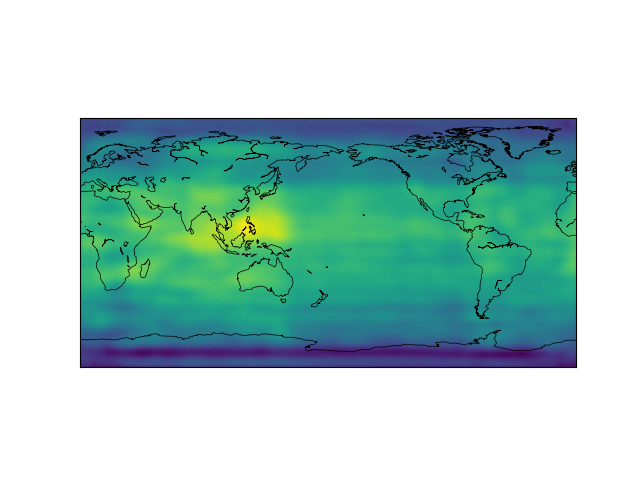
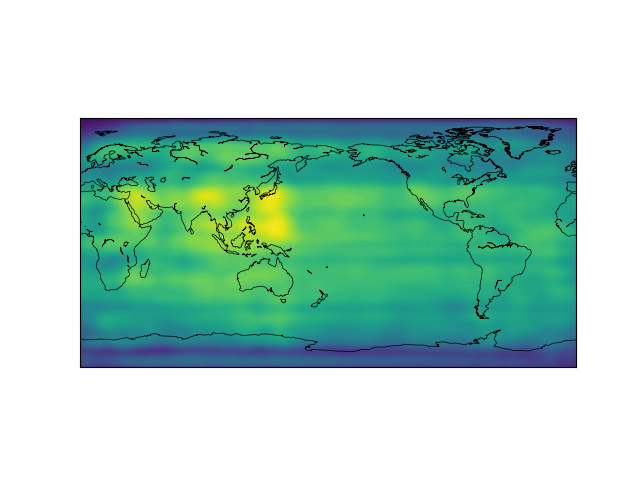
feat: ✨ update da.py + add docstrings!

Changed region(s): [[0.125, 0.25, 0.875, 0.7812], [0.875, 0.4062, 0.9062, 0.5938], [0.875, 0.25, 0.9062, 0.2812]]

diff --git a/DataAssimilation/da.py b/DataAssimilation/da.py
@@ -1,72 +1,85 @@
-import argparse
+"""
+ This function is the work of my life :D
+"""
 import tensorflow as tf
-import netCDF4 as nc
 import numpy as np
 from mpl_toolkits.basemap import Basemap
 import matplotlib.pyplot as plt
 
-# parser = argparse.ArgumentParser(prefix_chars='--')
-# parser.add_argument('--state', type=int, help='State to predict')
-# parser.add_argument('--variable', type=str, help='Variable to predict')
+
+VARIABLE = 'air'
+
+model = [tf.keras.models.load_model(
+    f'./cnn-models/{state}/{VARIABLE}{state}.h5', compile=False) for state in [0, 6, 12, 18]]
 
 
-# args = parser.parse_args()
-# state = args.state
-# variable = args.variable
+def forecast(x_forecast, t_state: int):
+    """_summary_
 
+    Args:
+        x_forecast (_type_): _description_
+        t_state (int): _description_
 
-
-
-# states: 0 - 6 - 12 -18
-
-state = 6
-variable = 'air'
-nc_data_i = nc.Dataset(f'./test-data/0/air0.nc')
-nc_data_i_1 = nc.Dataset(f'./test-data/6/air6.nc')
-
-data_i = nc_data_i[f'{variable}'][:].data
-data_i_1 = nc_data_i_1[f'{variable}'][:].data
-
-nc_data_i.close()
-nc_data_i_1.close()
-
-xb = data_i[0].flatten()
-xr = data_i_1[0].flatten()
-n_members = 20
-
-def forecast(x,t):
-    x = x.reshape(73,144)
-    if t == 0:
-        states = [18, 0, 6, 12, 18]
-    elif t == 6:
-        states = [0, 6, 12, 18, 0]
-    elif t == 12:
-        states = [6, 12, 18, 0, 6]
+    Returns:
+        _type_: _description_
+    """
+    x_forecast = x_forecast.reshape(73, 144)
+    if t_state == 0:
+        states = [3, 0, 1, 2, 3]
+    elif t_state == 6:
+        states = [0, 1, 2, 3, 0]
+    elif t_state == 12:
+        states = [1, 2, 3, 0, 1]
     else:
-        states = [12, 18, 0, 6, 12]
-    for state in states:
-        model = tf.keras.models.load_model(f'./cnn-models/{state}/{variable}{state}.h5', compile=False)
-        x = model.predict(tf.reshape(x, [1, 73, 144, 1]))[0, ..., 0]
-        del model
-    return x.flatten()
-
-def create_initial_ensemble(xb, t, N):
-  Xb = []
-  for _ in range(0,N):
-    xbe_pert = xb+0.01*np.random.randn(73*144) #e-th pertured ensemble member (no consistent with model dynamics)
-    xbe = forecast(xbe_pert, t) #e-th ensemble member (consistent with model dynamics)
-    Xb.append(xbe)
-  return Xb
-
-def forecast_ensemble(Xb, t):
-  for e, _ in enumerate(Xb):
-    Xb[e,:] = forecast(Xb[e,:], t);
-  return Xb
+        states = [2, 3, 0, 1, 2]
+    for _ in range(1):
+        for state in states:
+            x_forecast = model[state].predict(tf.reshape(x_forecast, [1, 73, 144, 1]))[0, ..., 0]
+    return x_forecast.flatten()
 
 
-Xb = create_initial_ensemble(xb,6,n_members)
-Xb = np.array(Xb)
-xt0 = forecast(xb,6)
+def create_initial_ensemble(x_b, t_state, n_members):
+    """_summary_
+
+    Args:
+        x_b (_type_): _description_
+        t_state (_type_): _description_
+        n_members (_type_): _description_
+
+    Returns:
+        _type_: _description_
+    """
+    ensemble = []
+    for _ in range(0, n_members):
+        # e-th pertured ensemble member (no consistent with model dynamics)
+        xbe_pert = x_b+0.01*np.random.randn(73*144)
+        # e-th ensemble member (consistent with model dynamics)
+        xbe = forecast(xbe_pert, t_state)
+        ensemble.append(xbe)
+    return np.array(ensemble)
+
+
+def forecast_ensemble(ensemble, t_state):
+    """_summary_
+
+    Args:
+        ensemble (_type_): _description_
+        t_state (_type_): _description_
+
+    Returns:
+        _type_: _description_
+    """
+    for element, _ in enumerate(ensemble):
+        ensemble[element, :] = forecast(ensemble[element, :], t_state)
+    return Xb
+
+
+NMEMBERS = 20
+x_random = np.random.randn(73*144,)
+x_0 = forecast(x_random, 6)
+x_b0 = forecast(x_0, 6)
+x_t = forecast(x_0, 6) # reference
+Xb = create_initial_ensemble(x_b0, 6, NMEMBERS)
 lons = np.linspace(0, 357.5, 144)
 lats = np.linspace(90, -90, 73)
 
@@ -76,46 +89,11 @@ lon, lat = np.meshgrid(lons, lats)
 min_lat, max_lat, min_lon, max_lon = lats.min(), lats.max(), lons.min(), lons.max()
 
 m = Basemap(projection='cyl', resolution='c',
-                llcrnrlat=min_lat, urcrnrlat=max_lat,
-                llcrnrlon=min_lon, urcrnrlon=max_lon)
+            llcrnrlat=min_lat, urcrnrlat=max_lat,
+            llcrnrlon=min_lon, urcrnrlon=max_lon)
 
 m.drawcoastlines(linewidth=0.5)
-cax = m.contourf(lon, lat,Xb.mean(axis=0).reshape(73,144), levels=100)
+cax = m.contourf(lon, lat, Xb.mean(axis=0).reshape(73, 144), levels=100)
 plt.savefig('DataAssimilation/Xb.png')
+plt.show()
 plt.close()
-
-# p = 0.8; #[0, 1] 0: no observations and 1: full observational network
-# m = round(p*73*144); #number of observations m<=n
-# err_obs = 0.01; #standard deviations of errors (a typical value)
-# R = (err_obs**2)*np.eye(m, m); #covariance matrix of data errors
-# M = 5; #number of assimilation cycles
-# t = [0, 0.1]
-# xt = np.array(xt0).astype('float32');
-# Xa = np.array(Xb.copy()).astype('float32')
-# err_a = [];
-# err_b = [];
-
-# for k in range(M):
-#   #Forecast step
-#   xt = forecast(xt, 0)
-#   Xb = forecast_ensemble(Xa, t)
-#   Pb = np.cov(Xb.T)
-#   xb = np.mean(Xb, axis=0)
-#   err_b.append(np.linalg.norm(xb-xt))
- 
-#   #Create observation - data for the assimilation process
-#   H = np.random.permutation(np.arange(73*144))[:m]; #we observe a different part of the domain
-#   y = np.random.multivariate_normal(xt[H], R);
-
-#   #Assimilation step
-#   Ys = np.random.multivariate_normal(y, R, N).T; #synthetic observations
-#   Ds = Ys - Xb[:,H].T; #Synthetic innovations
-#   Pa = R + Pb[H,:][:,H]; #Pa = R + H @ Pb @ H.T
-#   Za = np.linalg.solve(Pa, Ds);
-#   DX = Pb[:,H] @ Za;
-#   Xa = Xb + DX.T;
-#   xa = np.mean(Xa, axis=0);
-#   err_a.append(np.linalg.norm(xa-xt));
-
-# plt.plot(np.log(np.array(err_b)), '-b')
-# plt.plot(np.log(np.array(err_a)), '-r')
